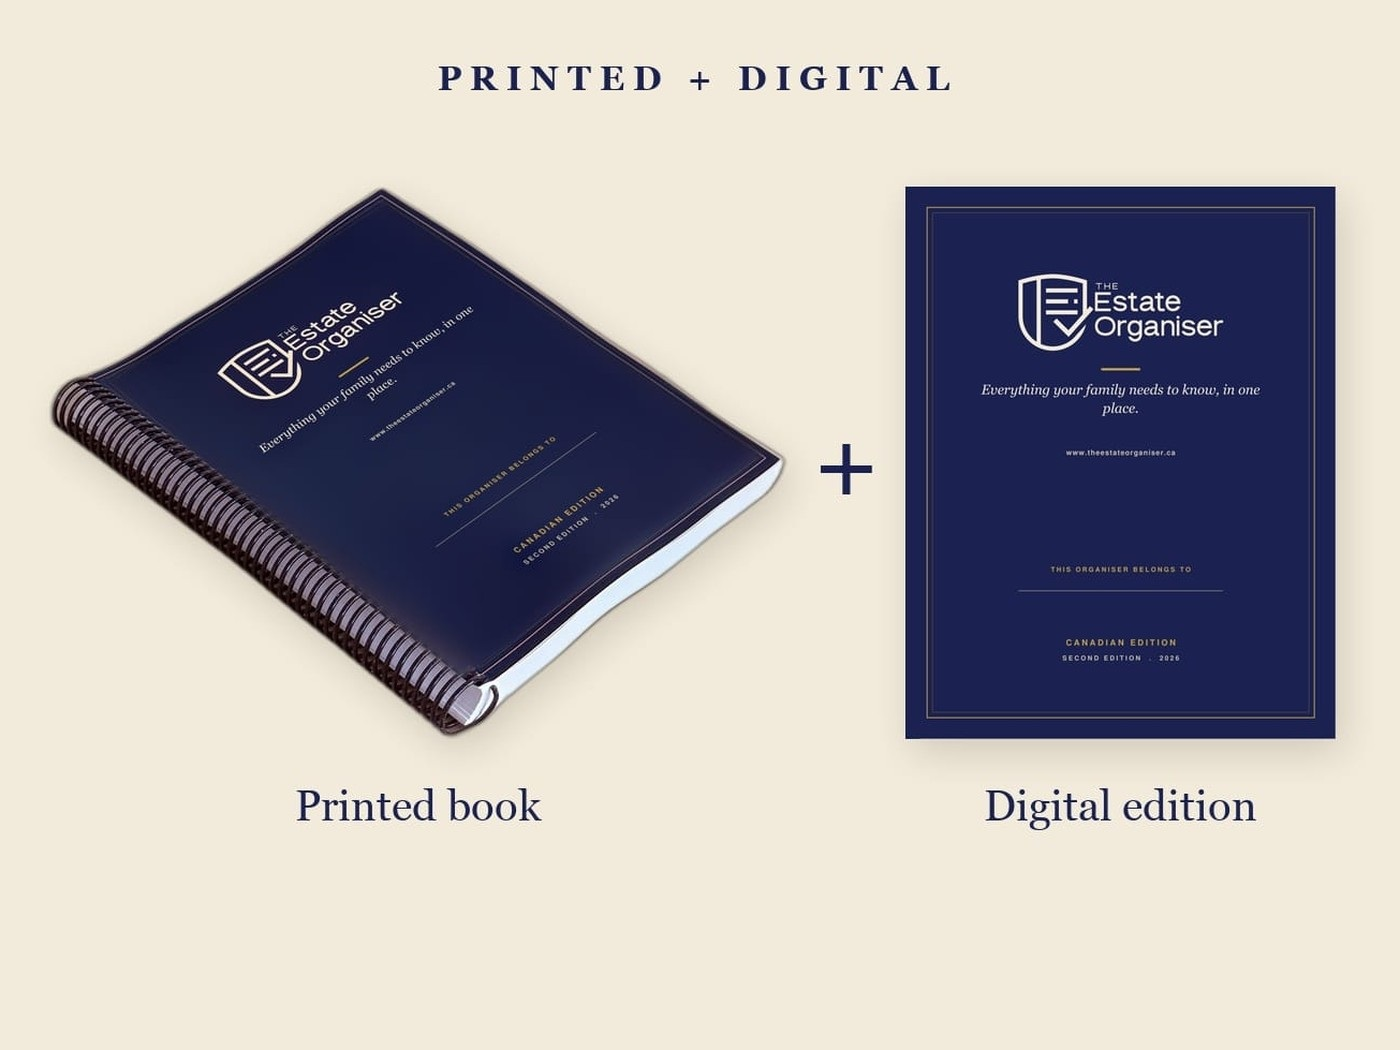
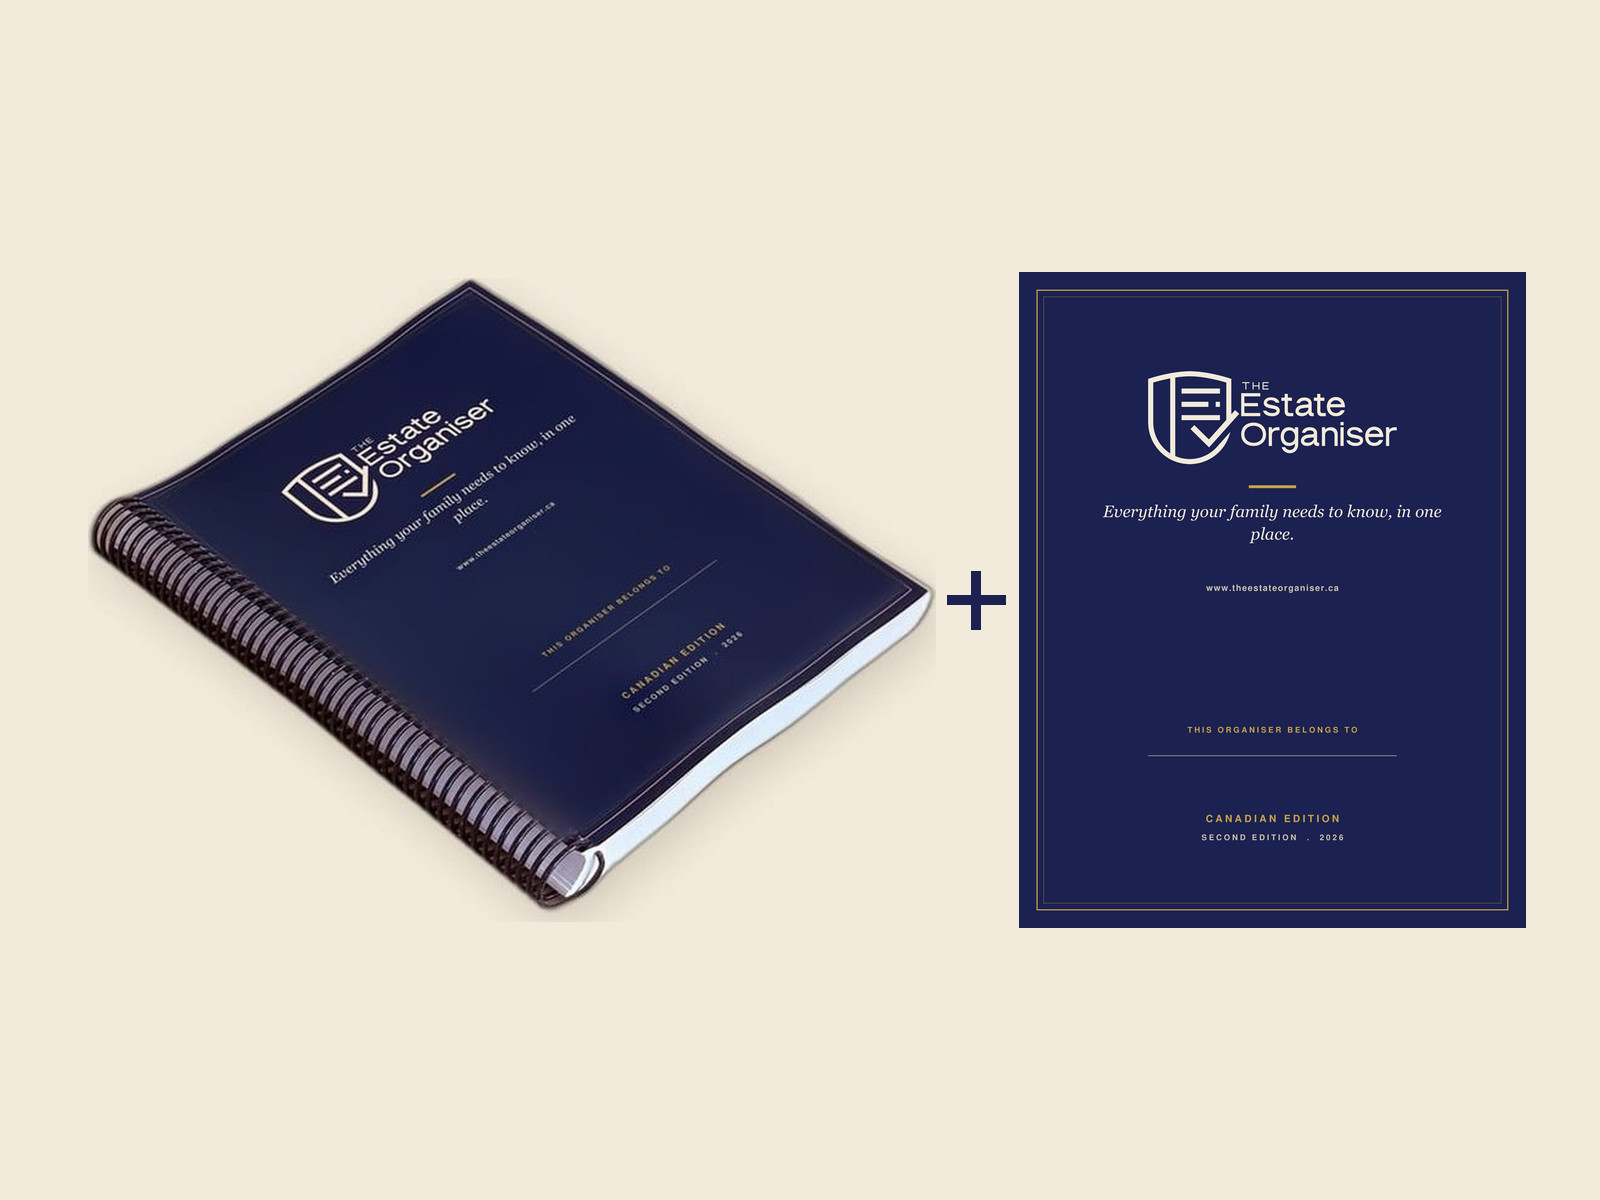
Format cards: drop the baked-in labels, rebuild from the print sources
The tier card images carried "DIGITAL ONLY", "PRINTED + DIGITAL", "Printed book"
and "Digital edition" burnt into the artwork. Drawn at 1400px and displayed at
about 341 CSS px, those letterforms landed around 10px and read as blurry. The
card already names the format underneath in HTML, so the labels are gone.

Rebuilt at 1600x1200 from the originals rather than upscaled: the cover comes off
the print cover spread PDF at 400 dpi, the coil book off the 3D render in Brand
Assets. Each site gets its own market cover. Composition and cream field are
unchanged, art vertically centred now the labels no longer take the top.

Build script: Estate Organiser/Assets/card-images/build-cards.py

diff --git a/the-estate-organiser/index.html b/the-estate-organiser/index.html
@@ -624,7 +624,7 @@
     </div>
     <div class="tiles book fmt-two" style="margin-top:34px">
       <div class="tile">
-        <img class="tileimg" loading="lazy" src="/assets/card-digital.jpg" alt="The Estate Organiser digital edition">
+        <img class="tileimg" loading="lazy" src="/assets/card-digital.jpg?v=2" alt="The Estate Organiser digital edition">
         <h3>Digital Edition</h3>
         <p class="t-price">$79 <span>CAD</span></p>
         <p class="t-sub">Fillable PDF, instant download<br><span class="complete-tag" style="margin-top:10px">Complete on its own</span></p>
@@ -635,7 +635,7 @@
         <p class="micro">Digital version only, no physical book</p>
       </div>
       <div class="tile featured">
-        <div class="tile-badge">Most people choose this</div><img class="tileimg" loading="lazy" src="/assets/card-both.jpg" alt="The printed book and the digital edition together">
+        <div class="tile-badge">Most people choose this</div><img class="tileimg" loading="lazy" src="/assets/card-both.jpg?v=2" alt="The printed book and the digital edition together">
         <h3>Printed + Digital</h3>
         <p class="t-price">$149 <span>CAD</span></p>
         <p class="t-sub">Free shipping, digital copy instantly<br><span class="complete-tag" style="margin-top:10px">Complete on its own</span></p>

diff --git a/index.html b/index.html
@@ -421,7 +421,7 @@
 
     <div class="tiles book fmt-two">
       <div class="tile">
-        <img class="tileimg" loading="lazy" src="/assets/card-digital.jpg" alt="The Estate Organiser digital edition">
+        <img class="tileimg" loading="lazy" src="/assets/card-digital.jpg?v=2" alt="The Estate Organiser digital edition">
         <h4>Digital Edition</h4>
         <p class="t-price">$79 <span>CAD</span></p>
         <p class="t-sub">Instant download</p>
@@ -432,7 +432,7 @@
         <p class="micro">Digital version only, no physical book</p>
       </div>
       <div class="tile featured">
-        <div class="tile-badge">Most people choose this</div><img class="tileimg" loading="lazy" src="/assets/card-both.jpg" alt="The printed book and the digital edition together">
+        <div class="tile-badge">Most people choose this</div><img class="tileimg" loading="lazy" src="/assets/card-both.jpg?v=2" alt="The printed book and the digital edition together">
         <h4>Printed + Digital</h4>
         <p class="t-price">$149 <span>CAD</span></p>
         <p class="t-sub">Free shipping, digital instantly</p>
